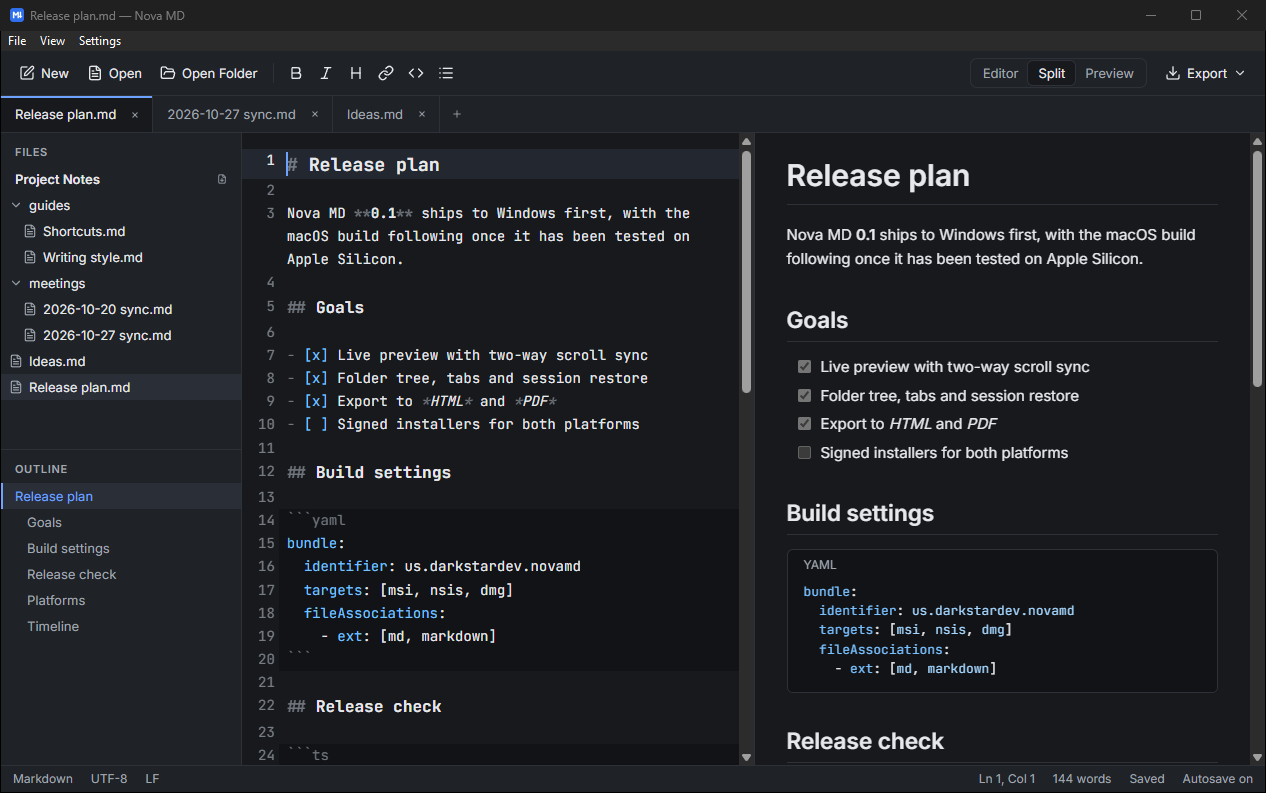
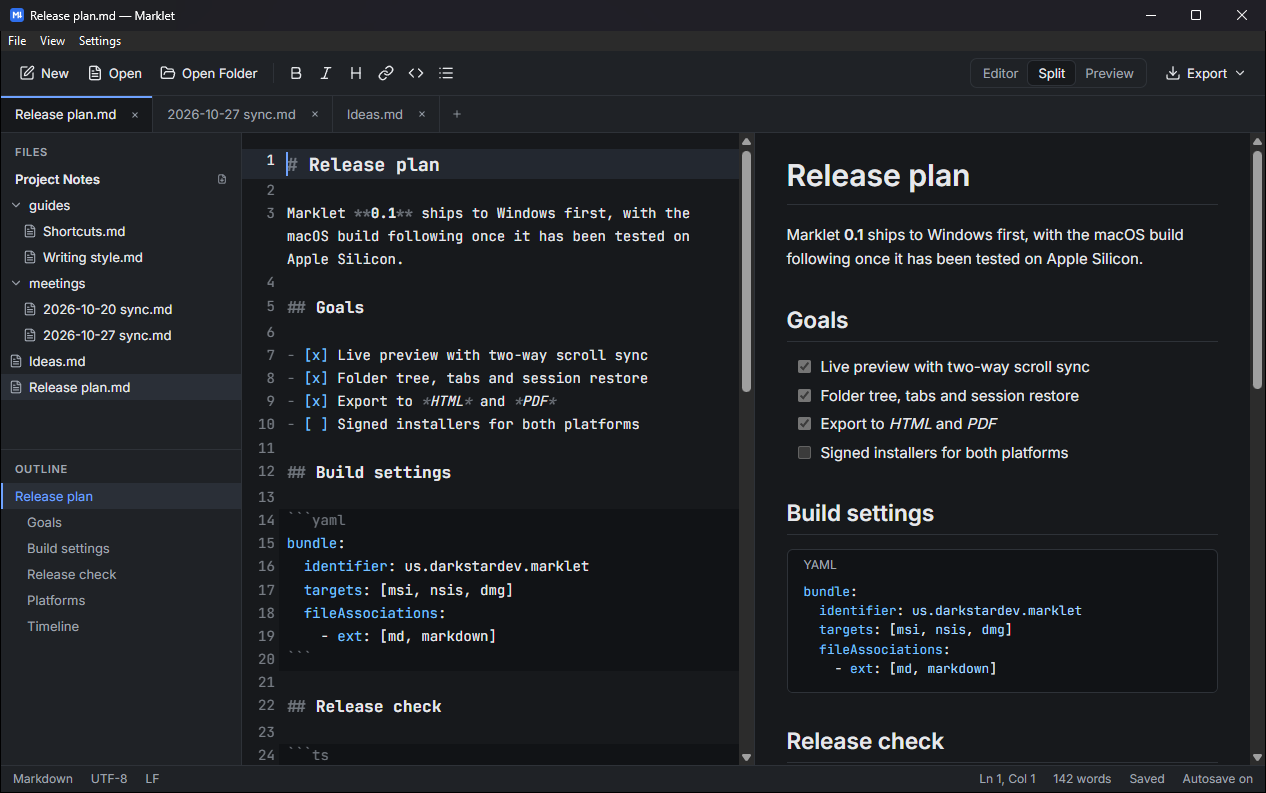
Rename the app from Nova MD to Marklet
The name clashed with an existing editor. Product name, window titles,
menus and dialogs now say Marklet; the bundle identifier is
us.darkstardev.marklet and the binary is marklet.exe. On first launch the
app copies settings.json from the old us.darkstardev.novamd folder, so
theme, accent, autosave and the last session carry over. README
screenshots are retaken with the new title.

diff --git a/src/App.tsx b/src/App.tsx
@@ -400,7 +400,7 @@ export default function App() {
     if (tab.dirty) {
       if (tab.id !== activeId.current) show(tab.id);
       const reload = await ask(`${docName(tab.doc)} changed on disk. Reload it and lose your unsaved changes?`, {
-        title: "Nova MD",
+        title: "Marklet",
         kind: "warning",
         okLabel: "Reload",
         cancelLabel: "Keep My Changes",
@@ -664,7 +664,7 @@ export default function App() {
   const dirty = active?.dirty ?? false;
   const name = docName(doc);
   useEffect(() => {
-    if (isTauri()) void getCurrentWindow().setTitle(`${dirty ? "● " : ""}${name} — Nova MD`);
+    if (isTauri()) void getCurrentWindow().setTitle(`${dirty ? "● " : ""}${name} — Marklet`);
   }, [name, dirty]);
 
   const resizeSplit = (clientX: number) => {

diff --git a/src/lib/stores/document.ts b/src/lib/stores/document.ts
@@ -54,7 +54,7 @@ export type UnsavedChoice = "save" | "discard" | "cancel";
 
 export async function askToSave(doc: Doc): Promise<UnsavedChoice> {
   const result = await message(`Do you want to save the changes you made to ${docName(doc)}?`, {
-    title: "Nova MD",
+    title: "Marklet",
     kind: "warning",
     buttons: { yes: "Save", no: "Don't Save", cancel: "Cancel" },
   });
@@ -64,7 +64,7 @@ export async function askToSave(doc: Doc): Promise<UnsavedChoice> {
 }
 
 export async function showError(err: unknown): Promise<void> {
-  await message(String(err), { title: "Nova MD", kind: "error" });
+  await message(String(err), { title: "Marklet", kind: "error" });
 }
 
 export function countWords(text: string): number {

diff --git a/src/lib/preview/highlight.ts b/src/lib/preview/highlight.ts
@@ -13,7 +13,7 @@ type Palette = (typeof PALETTE)[number];
 const color = (p: Palette) => `#00000${PALETTE.indexOf(p)}`; // Shiki wants hex; decoded below.
 
 const theme: ThemeRegistration = {
-  name: "nova",
+  name: "marklet",
   type: "light",
   fg: color("plain"),
   bg: "#ffffff",
@@ -141,7 +141,7 @@ export function highlightCode(code: string, tag: string): string | null {
   const hit = cache.get(key);
   if (hit !== undefined) return hit;
 
-  const lines = highlighter.codeToTokensBase(code.replace(/\n$/, ""), { lang: lang.shikiId, theme: "nova" });
+  const lines = highlighter.codeToTokensBase(code.replace(/\n$/, ""), { lang: lang.shikiId, theme: "marklet" });
   const html = lines
     .map((line) =>
       line

diff --git a/src/lib/stores/settings.ts b/src/lib/stores/settings.ts
@@ -7,8 +7,8 @@ export const isThemeSetting = (v: unknown): v is ThemeSetting => v === "system" 
 
 // Mirror of the theme in localStorage so it can be applied before first paint;
 // settings.json (tauri-plugin-store) stays the source of truth.
-const THEME_CACHE_KEY = "nova-md:theme";
-const ACCENT_CACHE_KEY = "nova-md:accent";
+const THEME_CACHE_KEY = "marklet:theme";
+const ACCENT_CACHE_KEY = "marklet:accent";
 
 let store: Promise<Store> | null = null;
 export const settingsStore = () => (store ??= load("settings.json", { defaults: { theme: "system", accent: "blue", autosave: true }, autoSave: 200 }));

diff --git a/src/lib/stores/workspace.ts b/src/lib/stores/workspace.ts
@@ -33,7 +33,7 @@ export async function confirmTrash(path: string, isDir: boolean, unsaved: boolea
   const what = isDir ? `the folder “${baseName(path)}” and everything in it` : `“${baseName(path)}”`;
   const note = unsaved ? " Its unsaved changes will be lost." : "";
   return ask(`Move ${what} to the ${trashName}?${note}`, {
-    title: "Nova MD",
+    title: "Marklet",
     kind: "warning",
     okLabel: `Move to ${trashName}`,
     cancelLabel: "Cancel",

diff --git a/src/lib/languages.ts b/src/lib/languages.ts
@@ -2,7 +2,7 @@ import type { LanguageRegistration } from "shiki/core";
 import { LanguageDescription, LanguageSupport, StreamLanguage } from "@codemirror/language";
 
 /**
- * The fenced-code languages Nova MD supports, shared by the editor
+ * The fenced-code languages Marklet supports, shared by the editor
  * (CodeMirror language packs) and the preview (Shiki grammars). Every loader
  * is a dynamic import, so nothing is fetched until a block uses it.
  */

diff --git a/src/styles/theme.css b/src/styles/theme.css
@@ -1,5 +1,5 @@
 /*
- * Nova MD design tokens — the single source for the editor, preview and export.
+ * Marklet design tokens — the single source for the editor, preview and export.
  * Light is the default; dark applies when the OS prefers it, unless the
  * <html data-theme="light"> override is set, or always with data-theme="dark".
  * <html data-accent> picks an accent preset; blue is the default.

diff --git a/src/lib/export/export.ts b/src/lib/export/export.ts
@@ -97,7 +97,7 @@ export async function buildHtml(
 <head>
 <meta charset="utf-8">
 <meta name="viewport" content="width=device-width, initial-scale=1">
-<meta name="generator" content="Nova MD">
+<meta name="generator" content="Marklet">
 <title>${escapeHtml(title)}</title>
 <style>
 ${themeCss}

diff --git a/index.html b/index.html
@@ -3,7 +3,7 @@
   <head>
     <meta charset="UTF-8" />
     <meta name="viewport" content="width=device-width, initial-scale=1.0" />
-    <title>Nova MD</title>
+    <title>Marklet</title>
   </head>
   <body>
     <div id="root"></div>

diff --git a/src-tauri/src/fs.rs b/src-tauri/src/fs.rs
@@ -44,7 +44,7 @@ pub fn write_file(path: String, text: String, line_ending: String, bom: bool) ->
     // Write to a sibling temp file, then rename over the target so a crash
     // mid-write never leaves a truncated document.
     let target = Path::new(&path);
-    let tmp = target.with_extension("nova-md-tmp");
+    let tmp = target.with_extension("marklet-tmp");
     std::fs::write(&tmp, out.as_bytes()).map_err(|e| format!("Could not write {path}: {e}"))?;
     std::fs::rename(&tmp, target).map_err(|e| {
         let _ = std::fs::remove_file(&tmp);
@@ -162,7 +162,7 @@ mod tests {
 
     #[test]
     fn crlf_and_bom_survive_a_round_trip() {
-        let path = temp_path("nova-md-test-crlf.md");
+        let path = temp_path("marklet-test-crlf.md");
         let original = "\u{feff}# Title\r\n\r\nBody line\r\n";
         std::fs::write(&path, original).unwrap();
 
@@ -179,7 +179,7 @@ mod tests {
 
     #[test]
     fn lf_files_stay_lf_without_bom() {
-        let path = temp_path("nova-md-test-lf.md");
+        let path = temp_path("marklet-test-lf.md");
         std::fs::write(&path, "a\nb\n").unwrap();
         let read = read_file(path.clone()).unwrap();
         assert_eq!(read.line_ending, "\n");
@@ -191,7 +191,7 @@ mod tests {
 
     #[test]
     fn non_utf8_is_rejected() {
-        let path = temp_path("nova-md-test-latin1.md");
+        let path = temp_path("marklet-test-latin1.md");
         std::fs::write(&path, [0x63, 0x61, 0x66, 0xe9]).unwrap();
         assert!(read_file(path.clone()).is_err());
         std::fs::remove_file(&path).unwrap();
@@ -199,7 +199,7 @@ mod tests {
 
     #[test]
     fn tree_lists_markdown_only_and_prunes_empty_folders() {
-        let root = std::env::temp_dir().join("nova-md-test-tree");
+        let root = std::env::temp_dir().join("marklet-test-tree");
         let _ = std::fs::remove_dir_all(&root);
         for dir in ["notes/deep", "empty", ".git", "node_modules/pkg"] {
             std::fs::create_dir_all(root.join(dir)).unwrap();
@@ -220,7 +220,7 @@ mod tests {
 
     #[test]
     fn create_and_rename_refuse_to_overwrite() {
-        let dir = std::env::temp_dir().join("nova-md-test-ops");
+        let dir = std::env::temp_dir().join("marklet-test-ops");
         let _ = std::fs::remove_dir_all(&dir);
         let a = dir.join("sub/a.md").to_string_lossy().into_owned();
         let b = dir.join("b.md").to_string_lossy().into_owned();

diff --git a/src-tauri/src/main.rs b/src-tauri/src/main.rs
@@ -7,6 +7,21 @@ mod launch;
 mod menu;
 mod watcher;
 
+use tauri::Manager;
+
+/// 0.1.0 first shipped as "Nova MD" (us.darkstardev.novamd). On the first run
+/// under the new identifier, copy its settings (theme, accent, autosave, last
+/// session) across. Runs before the front end opens the store.
+fn carry_over_settings(app: &tauri::AppHandle) {
+    let Ok(dir) = app.path().app_data_dir() else { return };
+    let Some(old) = dir.parent().map(|p| p.join("us.darkstardev.novamd").join("settings.json")) else { return };
+    let new = dir.join("settings.json");
+    if !new.exists() && old.is_file() {
+        let _ = std::fs::create_dir_all(&dir);
+        let _ = std::fs::copy(old, new);
+    }
+}
+
 fn main() {
     tauri::Builder::default()
         // Must be registered first, so a second launch exits before doing anything else.
@@ -19,6 +34,7 @@ fn main() {
         .manage(watcher::FolderWatcher::default())
         .manage(launch::LaunchFiles::default())
         .setup(|app| {
+            carry_over_settings(app.handle());
             let menu = menu::build(app.handle())?;
             app.set_menu(menu)?;
             launch::open_files(app.handle(), launch::files_from_args(std::env::args()));
@@ -41,7 +57,7 @@ fn main() {
             launch::take_launch_files
         ])
         .build(tauri::generate_context!())
-        .expect("error while building Nova MD")
+        .expect("error while building Marklet")
         .run(|_app, _event| {
             // macOS delivers double-clicked files as an event, not as arguments.
             #[cfg(target_os = "macos")]

diff --git a/src-tauri/src/menu.rs b/src-tauri/src/menu.rs
@@ -46,7 +46,7 @@ pub fn build(app: &AppHandle) -> tauri::Result<Menu<Wry>> {
         Ok::<_, tauri::Error>(check)
     };
 
-    let quit_label = if cfg!(target_os = "macos") { "Quit Nova MD" } else { "Exit" };
+    let quit_label = if cfg!(target_os = "macos") { "Quit Marklet" } else { "Exit" };
     let quit_accel = if cfg!(target_os = "macos") { Some("CmdOrCtrl+Q") } else { None };
 
     let mut file = SubmenuBuilder::new(app, "File")
@@ -94,7 +94,7 @@ pub fn build(app: &AppHandle) -> tauri::Result<Menu<Wry>> {
     if cfg!(target_os = "macos") {
         // macOS: settings live in the app menu, and an Edit menu is required
         // for the standard clipboard shortcuts to reach the web view.
-        let app_menu = SubmenuBuilder::new(app, "Nova MD")
+        let app_menu = SubmenuBuilder::new(app, "Marklet")
             .about(None)
             .separator()
             .item(&settings)
